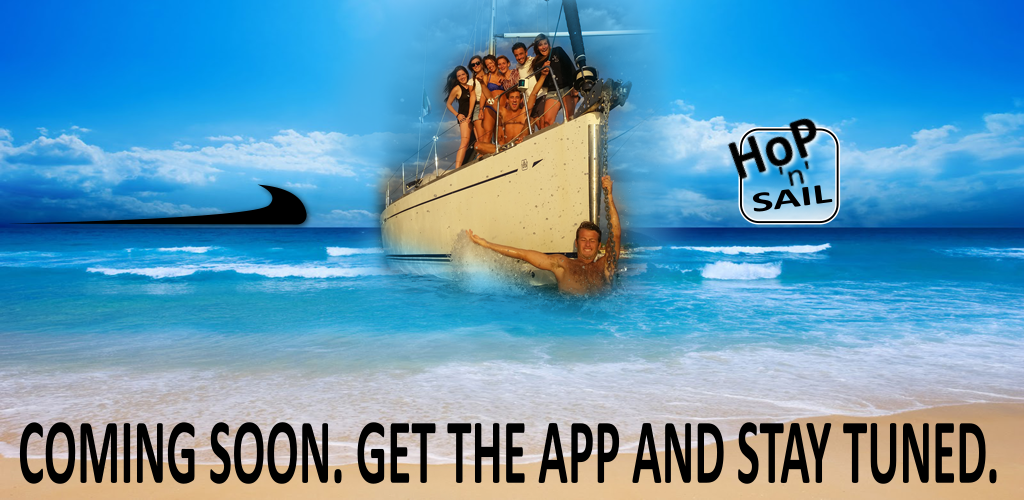
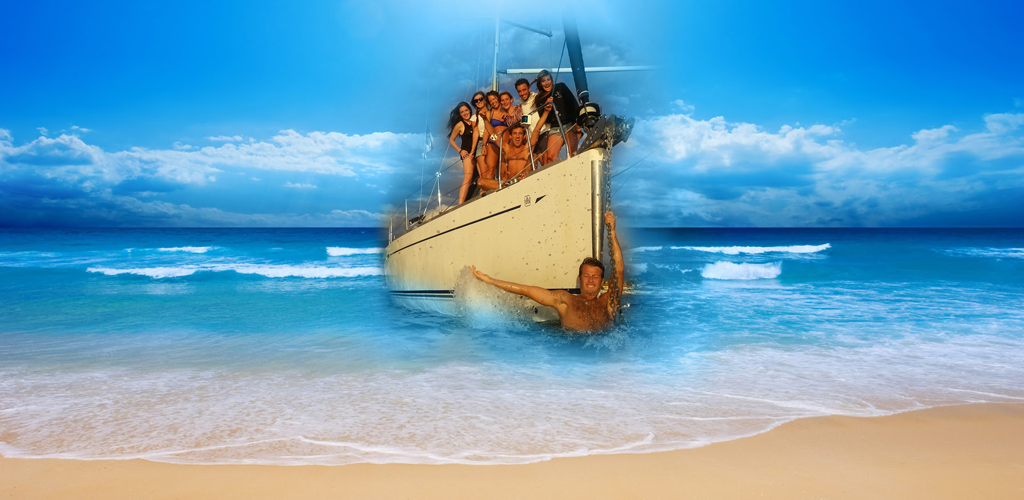
fix coming soon

diff --git a/app/assets/stylesheets/application.css.scss b/app/assets/stylesheets/application.css.scss
@@ -25,9 +25,57 @@
   bottom: 0;
   right: 0;
   left: 0;
+  z-index: -1;
   background: image-url("banner.png") no-repeat center center fixed;
   -webkit-background-size: cover;
   -moz-background-size: cover;
   -o-background-size: cover;
   background-size: cover;  
 }
+
+.logo-coming-soon {
+  margin-top: 193px;
+  width: 200px;
+  float: right;
+  img {
+    width: 100%;
+  }
+}
+
+.title-coming-soon {
+  text-align: center;
+  position: absolute;
+  bottom: 59px;
+  right: 0;
+  left: 0;
+  font-size: 75px;
+  font-weight: bold;
+  color: black;
+}
+
+
+.text-coming-soon {
+  text-align: center;
+  position: absolute;
+  bottom: 40px;
+  right: 0;
+  left: 0;
+  font-size: 19px;
+  font-weight: bold;
+  color: black;
+
+  a {
+    color: black;
+    &:hover {
+      text-decoration: none;
+      color: #337ab7;
+    }
+  }
+}
+
+
+
+
+
+
+
